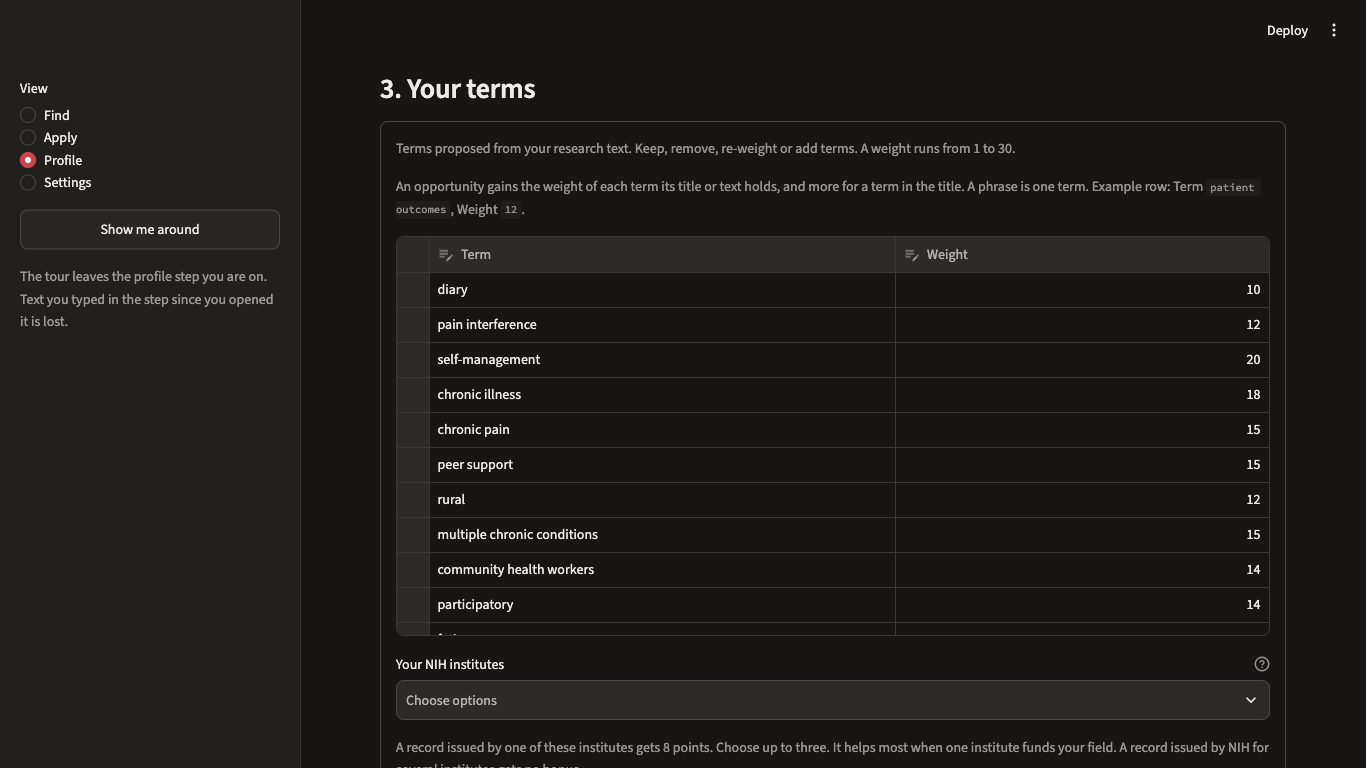
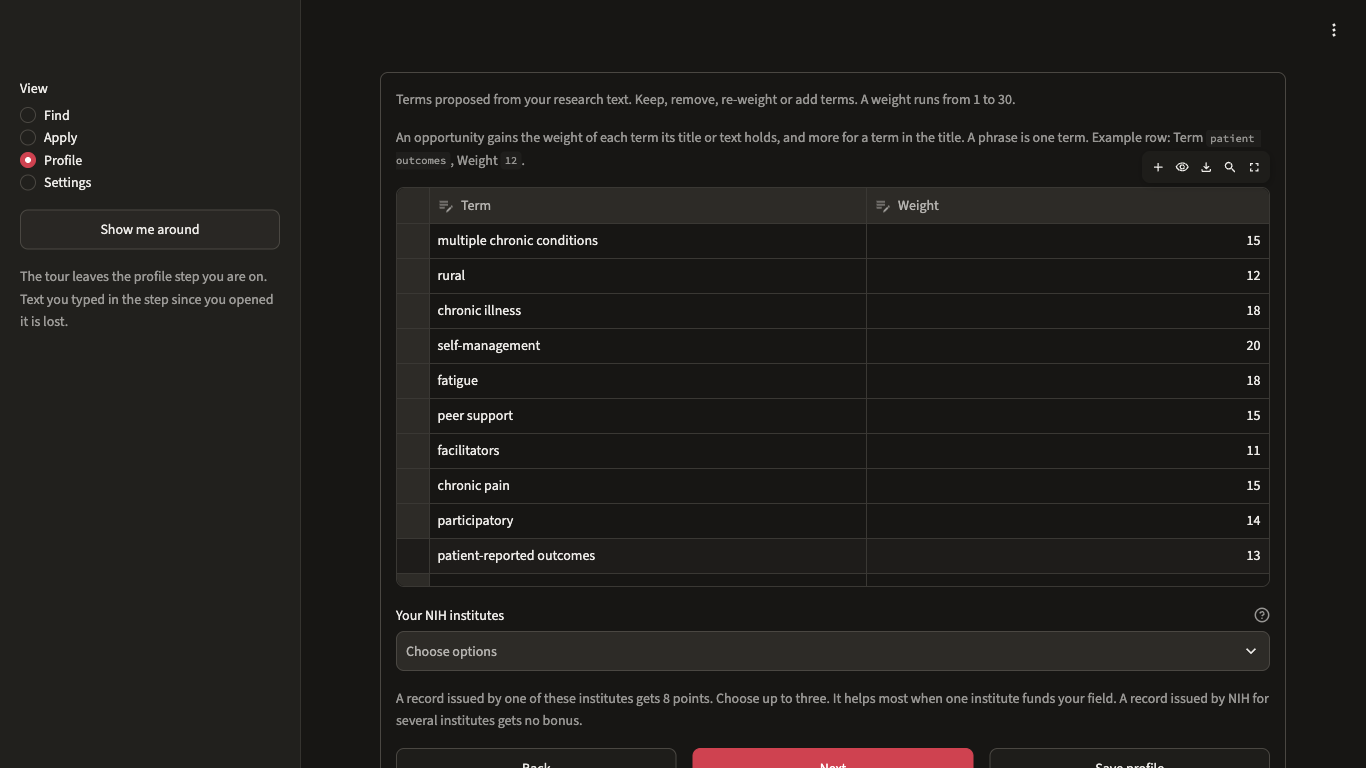
docs: redo step 3 of the walk-through on the fixed term proposals

diff --git a/docs/walkthrough.md b/docs/walkthrough.md
@@ -96,21 +96,26 @@ Select **Next**. With the aims box empty, a red message said `Write three to six
 
 ### Step 3. Your terms
 
-The wizard proposes terms from the text of step 2. Do not accept the list as it comes. For the example it proposed 25 single words, each with a weight from 10 to 15:
+The wizard proposes terms from the text of step 2. Read the list before you accept it. For the example it proposed 25 terms, each with a weight from 6 to 15:
 
 ```text
-diary, interference, reaches, telephone, video, surveys, energy, reduces, live, participatory, fatigue, reported, far, find, limiting, clinics, improves, keep, workers, member, symptom, facilitators, we, specialty, adapt
+self, chronic, rural, chronic illness, self-management, fatigue, adults, peer, peer facilitators, specialty, rural adults, energy, surveys, pain, participatory, limiting, reported, clinics, member, people, workers, symptom, delivered, diary, interference
 ```
 
-![The table of proposed terms, which starts with diary, interference, reaches, telephone and video](../images/walkthrough/03-profile-terms-proposed.png)
+![The table of proposed terms, which starts with self, chronic, rural, chronic illness and self-management](../images/walkthrough/03-profile-terms-proposed.png)
 
-Some of these name the field, such as "fatigue" and "symptom". Many do not, such as "reaches", "live", "far", "find", "keep", and "we". The words that name the field best were missing. The list had no "chronic", "pain", "rural", or "self-management", and it had no phrase at all.
+Most of the list names the field. It has "chronic", "rural", "fatigue", "pain", "symptom", and "participatory". It has four phrases, "chronic illness", "self-management", "peer facilitators", and "rural adults". The list still needed a hand in four places:
 
-An opportunity gains the weight of each term that its title or text holds. A general word such as "live" would add points to opportunities that have nothing to do with chronic illness. So the example changed the list in three ways:
+- Six terms are one part of a phrase in the text. "self" comes from "self-management", "energy" and "limiting" from "energy-limiting", "reported" from "patient-reported", "workers" from "community health workers", and "interference" from "pain interference".
+- Some words are general, such as "adults", "people", "member", and "delivered".
+- Some phrases of the field are missing. The list has no "chronic pain", and it has no phrase of three words, such as "multiple chronic conditions".
+- The weights do not follow what matters most to the work. "energy" and "surveys" had 15. "self-management" and "chronic illness" had 9, and "chronic" had 6.
 
-- It kept five terms: "diary", "participatory", "fatigue", "symptom", and "facilitators". It raised "fatigue" from 13 to 18, because fatigue is central to the work.
-- It typed a phrase over each of ten general words. To change a term, select its cell, press Enter, type, and press Enter again.
-- It deleted the ten words that were left: "find", "limiting", "clinics", "improves", "keep", "workers", "member", "we", "specialty", and "adapt". To delete a row, select a cell in it, press Shift and Space to select the row, and press Delete.
+An opportunity gains the weight of each term that its title or text holds. A general word such as "people" says little about the work, and it adds points wherever it appears. So the example changed the list in three ways:
+
+- It kept seven terms: "self-management", "chronic illness", "fatigue", "rural", "participatory", "symptom", and "diary". It raised four of their weights. "self-management" went from 9 to 20, "chronic illness" from 9 to 18, "fatigue" from 13 to 18, and "rural" from 10 to 12.
+- It typed a phrase over each of seven terms, and it set their weights to the ones in the table below. "chronic" became "multiple chronic conditions", "pain" became "chronic pain", "peer" became "peer support", "workers" became "community health workers", "reported" became "patient-reported outcomes", "clinics" became "access to care", and "interference" became "pain interference". It also shortened "peer facilitators" to "facilitators", and step 4 shows what that shorter term costs. To change a term or a weight, select its cell, press Enter, type, and press Enter again.
+- It deleted the ten terms that were left: "self", "adults", "specialty", "rural adults", "energy", "surveys", "limiting", "member", "people", and "delivered". To delete a row, select a cell in it, press Shift and Space to select the row, and press Delete.
 
 The table then held 15 terms:
 
@@ -132,7 +137,7 @@ The table then held 15 terms:
 | facilitators | 11 |
 | diary | 10 |
 
-![The table after the changes, which starts with diary, pain interference, self-management, chronic illness and chronic pain](../images/walkthrough/04-profile-terms-edited.png)
+![The table after the changes, which starts with multiple chronic conditions, rural, chronic illness, self-management and fatigue](../images/walkthrough/04-profile-terms-edited.png)
 
 Below the table, **Your NIH institutes** gives 8 points to a record that one of your institutes issued. The example left it empty. The help says "Leave it empty when you are not sure, and no record gets the bonus."
 
@@ -516,7 +521,7 @@ project-narrative  final  56 words
 ## Use it well
 
 - **The score is a first look.** The three highest scores in the example were awards that Lanternwell could not apply for, and the announcement it chose had a score of 21.6 at the Watchlist level. Sort and filter with the score. Decide by reading.
-- **The proposed terms need your hand.** The wizard proposed "we", "live", and "far", and it proposed no phrase. The ranking is only as good as the terms you keep.
+- **The proposed terms need your hand.** The wizard proposed the field's own words and four phrases. It also proposed "self" and "people", it left out "chronic pain", and it gave "self-management" a weight of 9. The ranking is only as good as the terms and weights you keep.
 - **A common word as a keyword may not narrow anything.** `pain` fetched 341 of the 369 open notices. Use a phrase such as `chronic pain`, or **Filter within results**.
 - **Eligibility is yours to check.** Grant Matcher shows Sections I, IV, and V. Read Section III on NIH's page, and start the registrations early.
 - **A model can invent, and it can shift a claim.** In the example it left a placeholder where it had no fact, which is what it is told to do. It also turned "people in rural areas" into "rural adults" in a polish. The checks catch a made-up citation or number. Only you catch a change of meaning.
